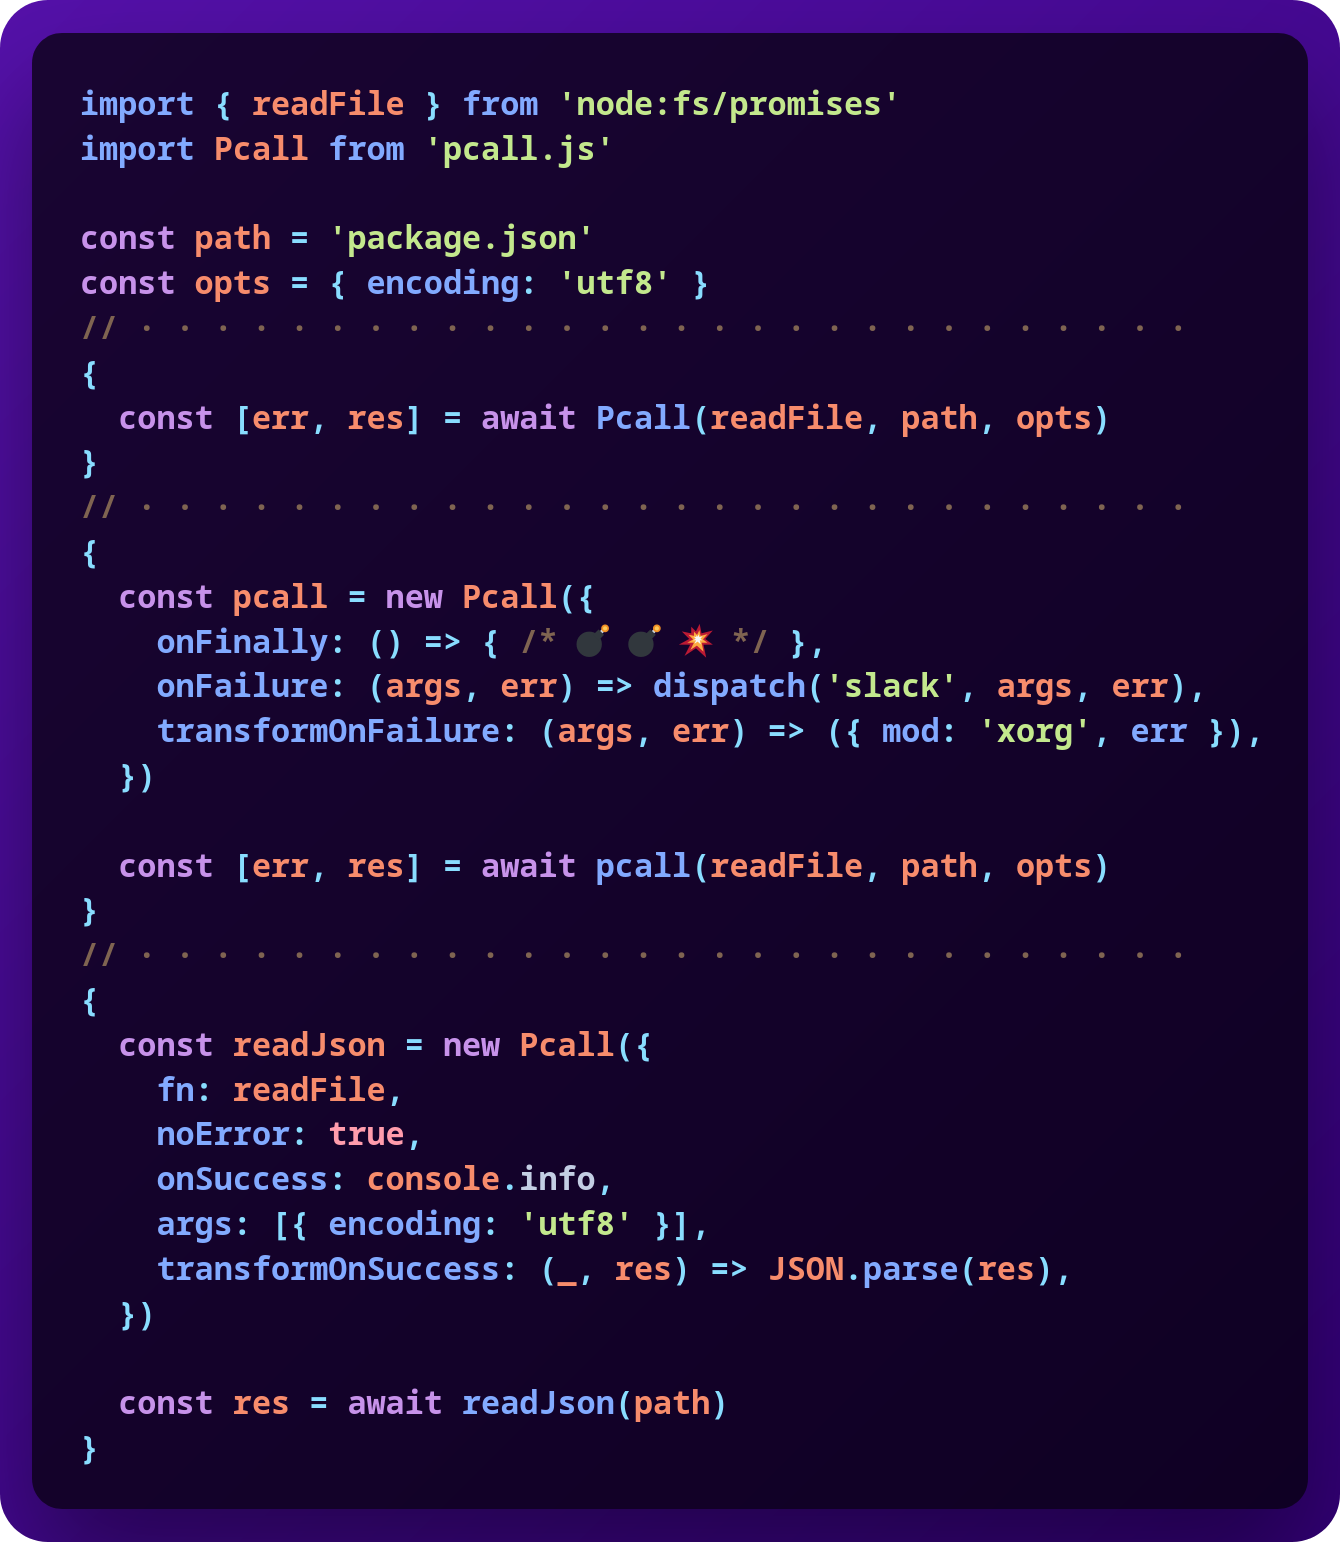
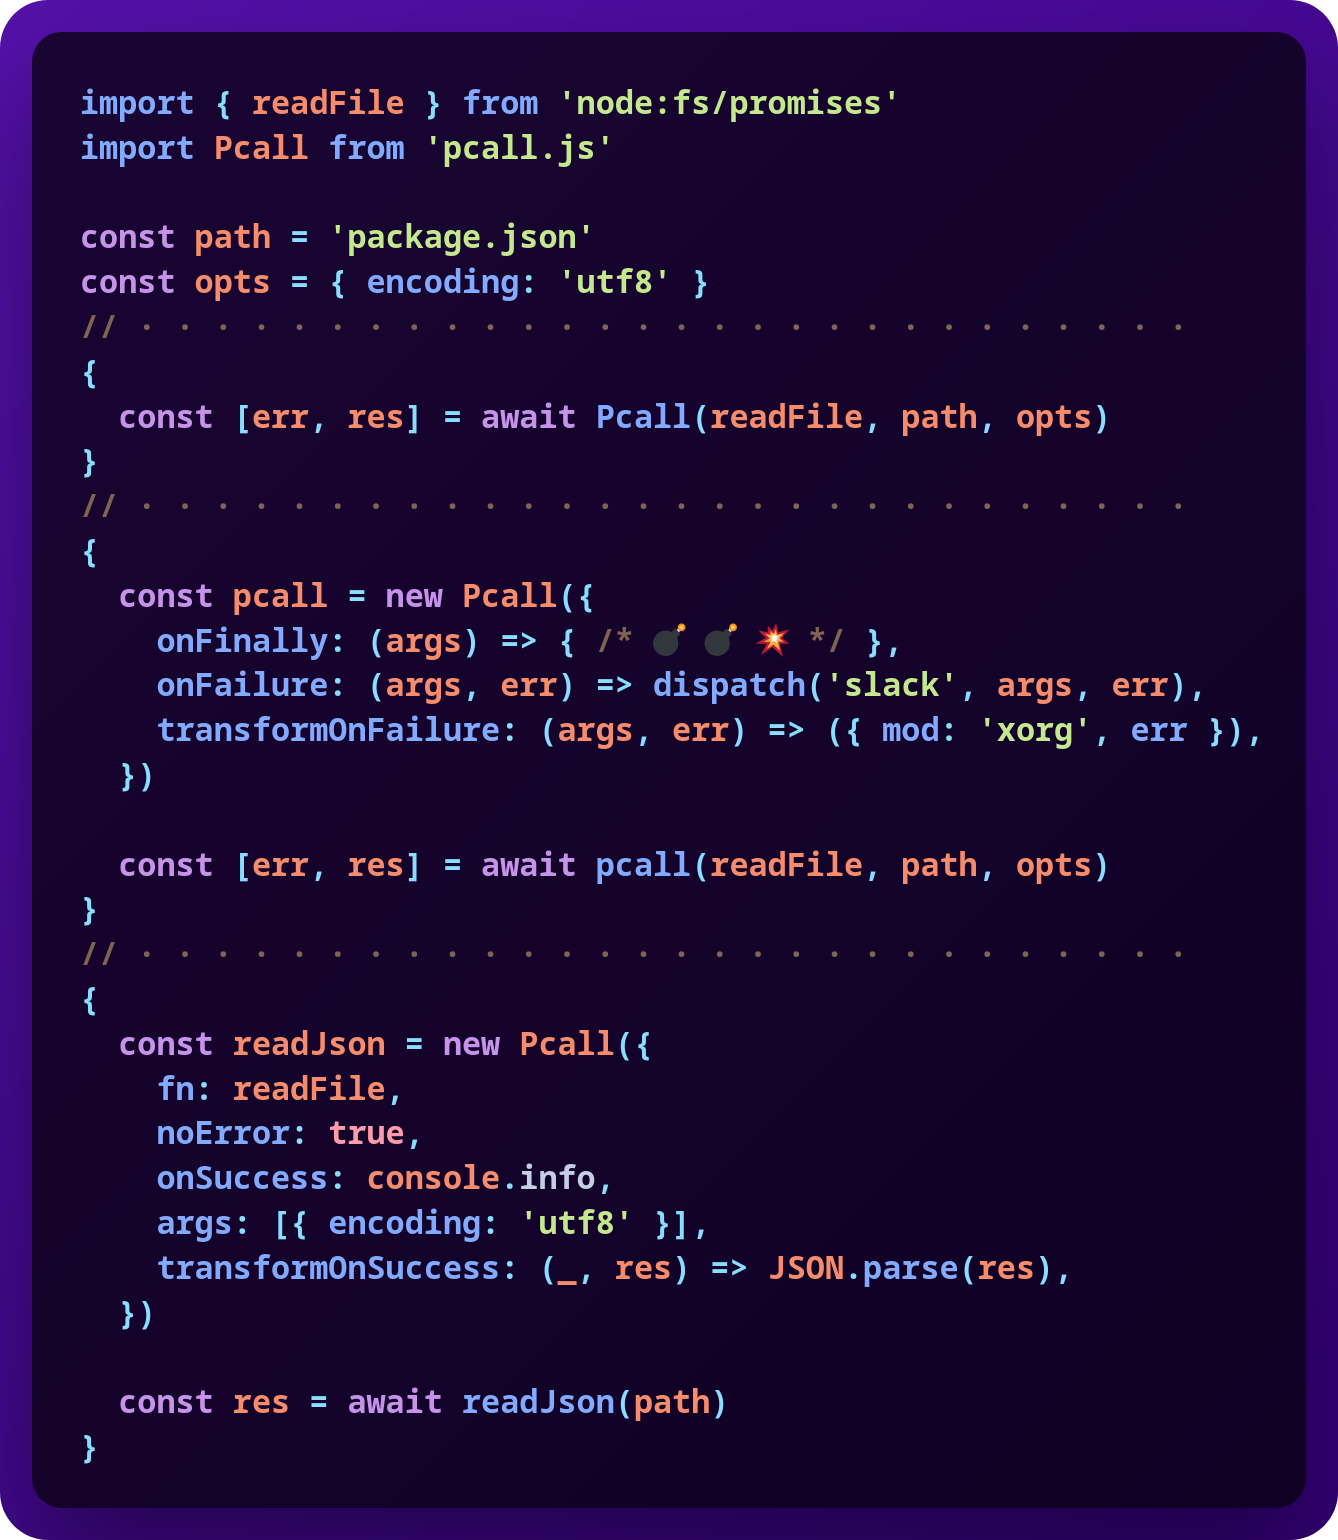
bugfix

diff --git a/src/index.js b/src/index.js
@@ -24,15 +24,15 @@ class Pcall {
 
   transformOnFailure(args, err) { return err; }
 
-  onSuccess(args, res) { console.info('[DEF]:onSuccess', { args, res }); }
+  onSuccess(args, res) { console.info('@OK', { args, res }); }
 
-  onFailure(args, err) { console.error('[DEF]:onFailure', { args, err }); }
+  onFailure(args, err) { console.error('@NO', { args, err }); }
 
-  onFinally(opts) {
-    opts.name = 'PCALL::TRACE'
-    opts.message ??= 'N/A'
-    Error.captureStackTrace(opts)
-    opts.noTrace || void console.trace(opts.stack)
+  onFinally(args) {
+    args.name = 'PCALL::TRACE'
+    args.message ??= 'N/A'
+    Error.captureStackTrace(args)
+    this.noTrace || void console.trace(args.stack)
   }
 
   async exec(fn, ...args) {
@@ -52,7 +52,7 @@ class Pcall {
       const out = this.transformOnFailure(args, err)
 
       return this.noError ? out : [true, out]
-    } finally { void this.onFinally(); }
+    } finally { void this.onFinally(args); }
   }
 }
 

diff --git a/README.md b/README.md
@@ -2,18 +2,17 @@
   <h1>PCALL<sub>.js</sub></h1>
   <img alt="logo-of-pcall" src="https://raw.githubusercontent.com/metaory/pcall.js/master/.github/assets/icon.png" width="168px">
   <h2>Errors as Values</h2>
-    ╶─╴╶╴╶╴╶╴╶╴╶╴╶╴╶╴╶╴╶╴╶─╴
   <h5>unwrap/expand to array-like safe tuple results</h5>
     ╶─╴╶╴╶╴╶╴╶╴╶╴╶╴╶╴╶╴╶╴╶─╴
   <br>
-  <p> 🧬 Lifecycle Hooks</p>
-  <p> 📦 Zero Dependency</p>
-  <p> 📍 Concise Signature</p>
-  <p> 🎌 Group Side Effects</p>
-  <p> 🛑 try/catch ~~HELL~ 👹</p>
-  <p> 🌟 Better Visibility and Control</p>
-  <p> 🌐 Works in ESM & CJS</p>
-  <p> 〽 Minimal Obsessive Disorder</p>
+  <p>🧬 Lifecycle Hooks</p>
+  <p>📦 Zero Dependency</p>
+  <p>📍 Concise Signature</p>
+  <p>🎌 Group Side Effects</p>
+  <p>🛑 try/catch ~~HELL~ 👹</p>
+  <p>🌟 Better Visibility and Control</p>
+  <p>🌐 Works in ESM & CJS</p>
+  <p>〽 Minimal Obsessive Disorder</p>
 </div>
 
 ---
@@ -136,7 +135,7 @@ import Pcall from 'pcall.js'
 const pcall = new Pcall({
   onSuccess: console.log,
   onFailure: console.error,
-  onFinally: () => { /* 💣 💣 💥 */ },
+  onFinally: (args) => { /* 💣 💣 💥 */ },
   transformOnSuccess: (args, res) => res,
   transformOnFailure: (args, err) => err,
   noError: false,
